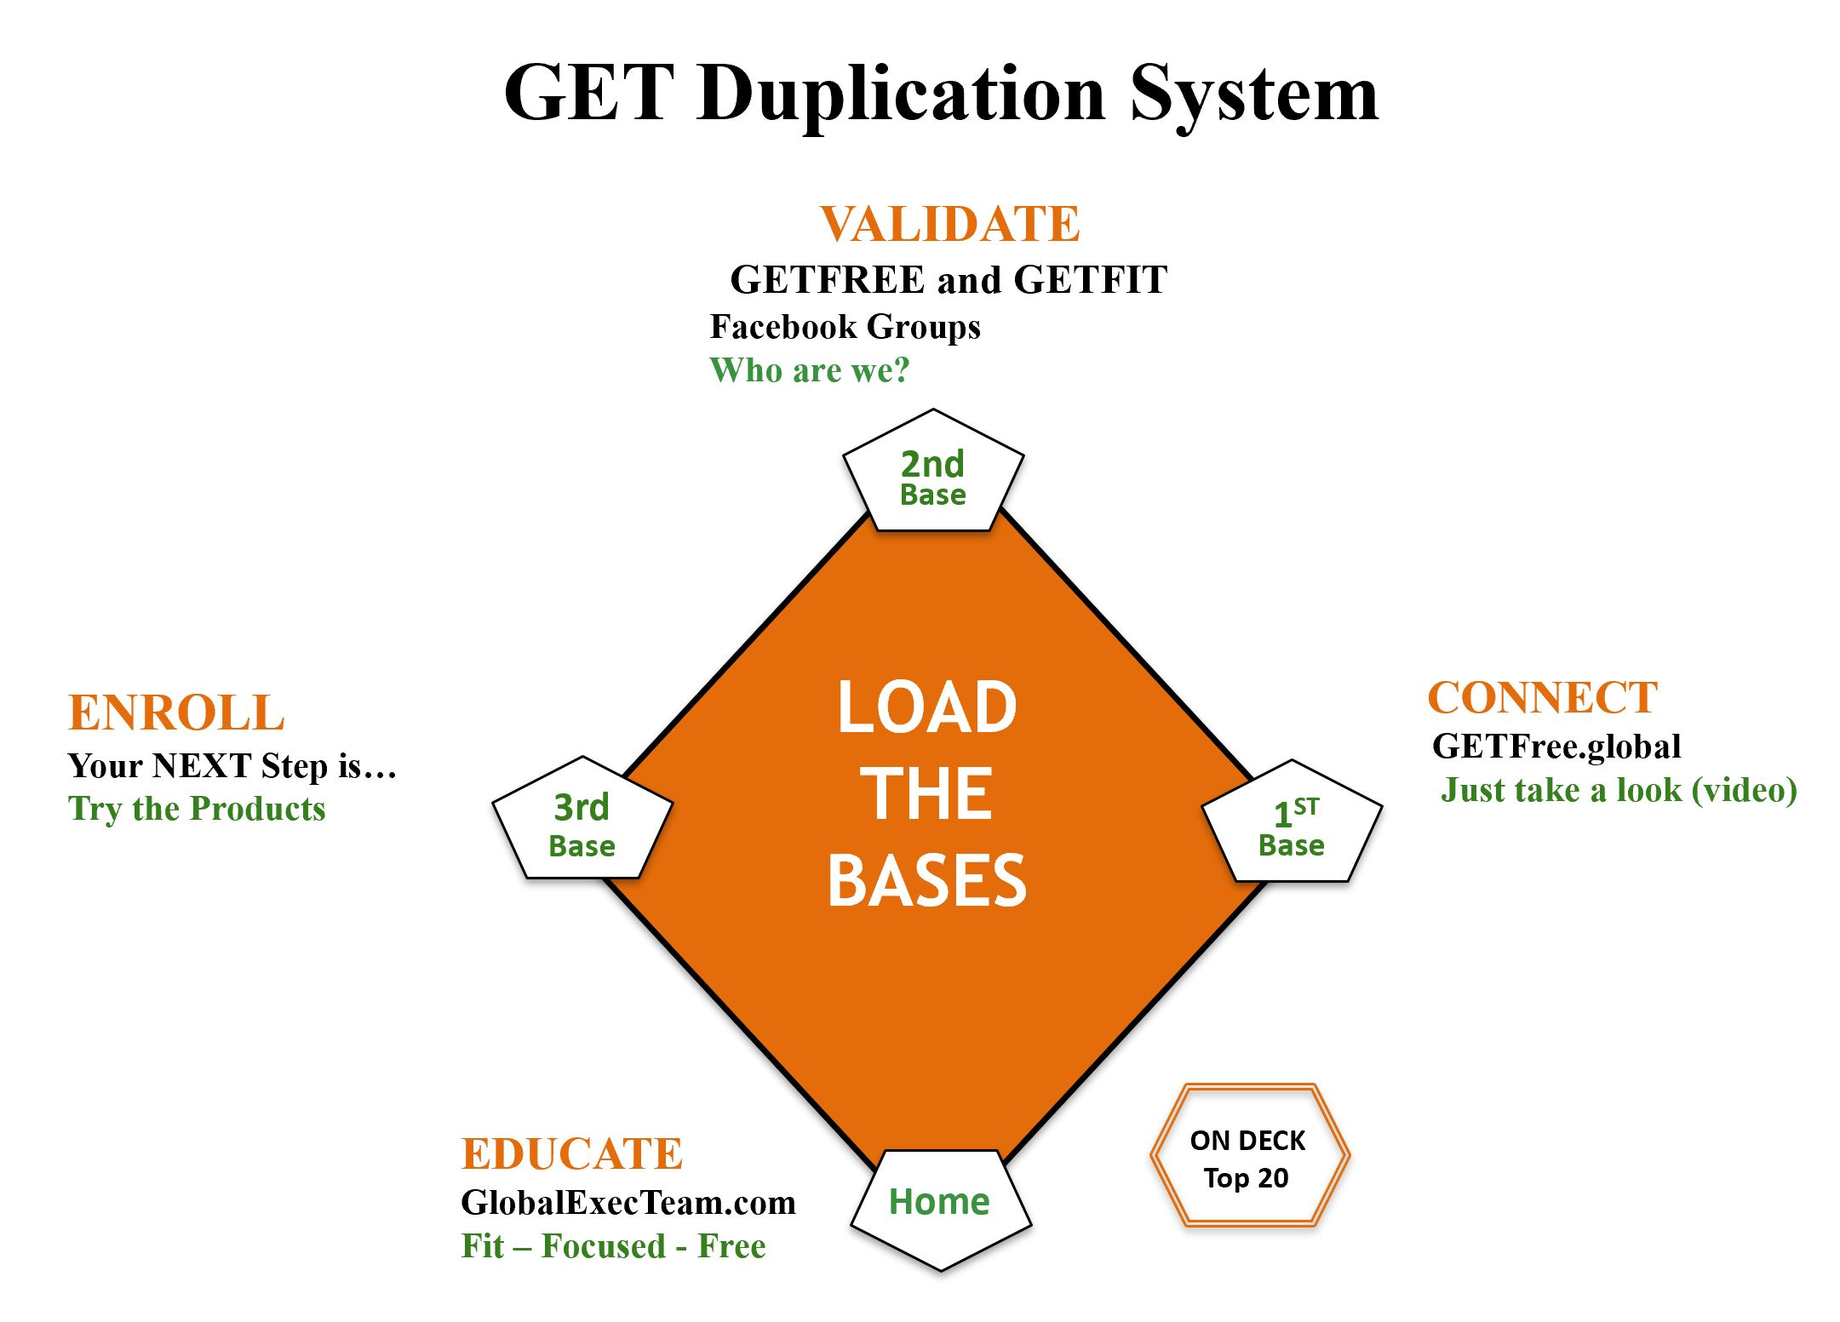
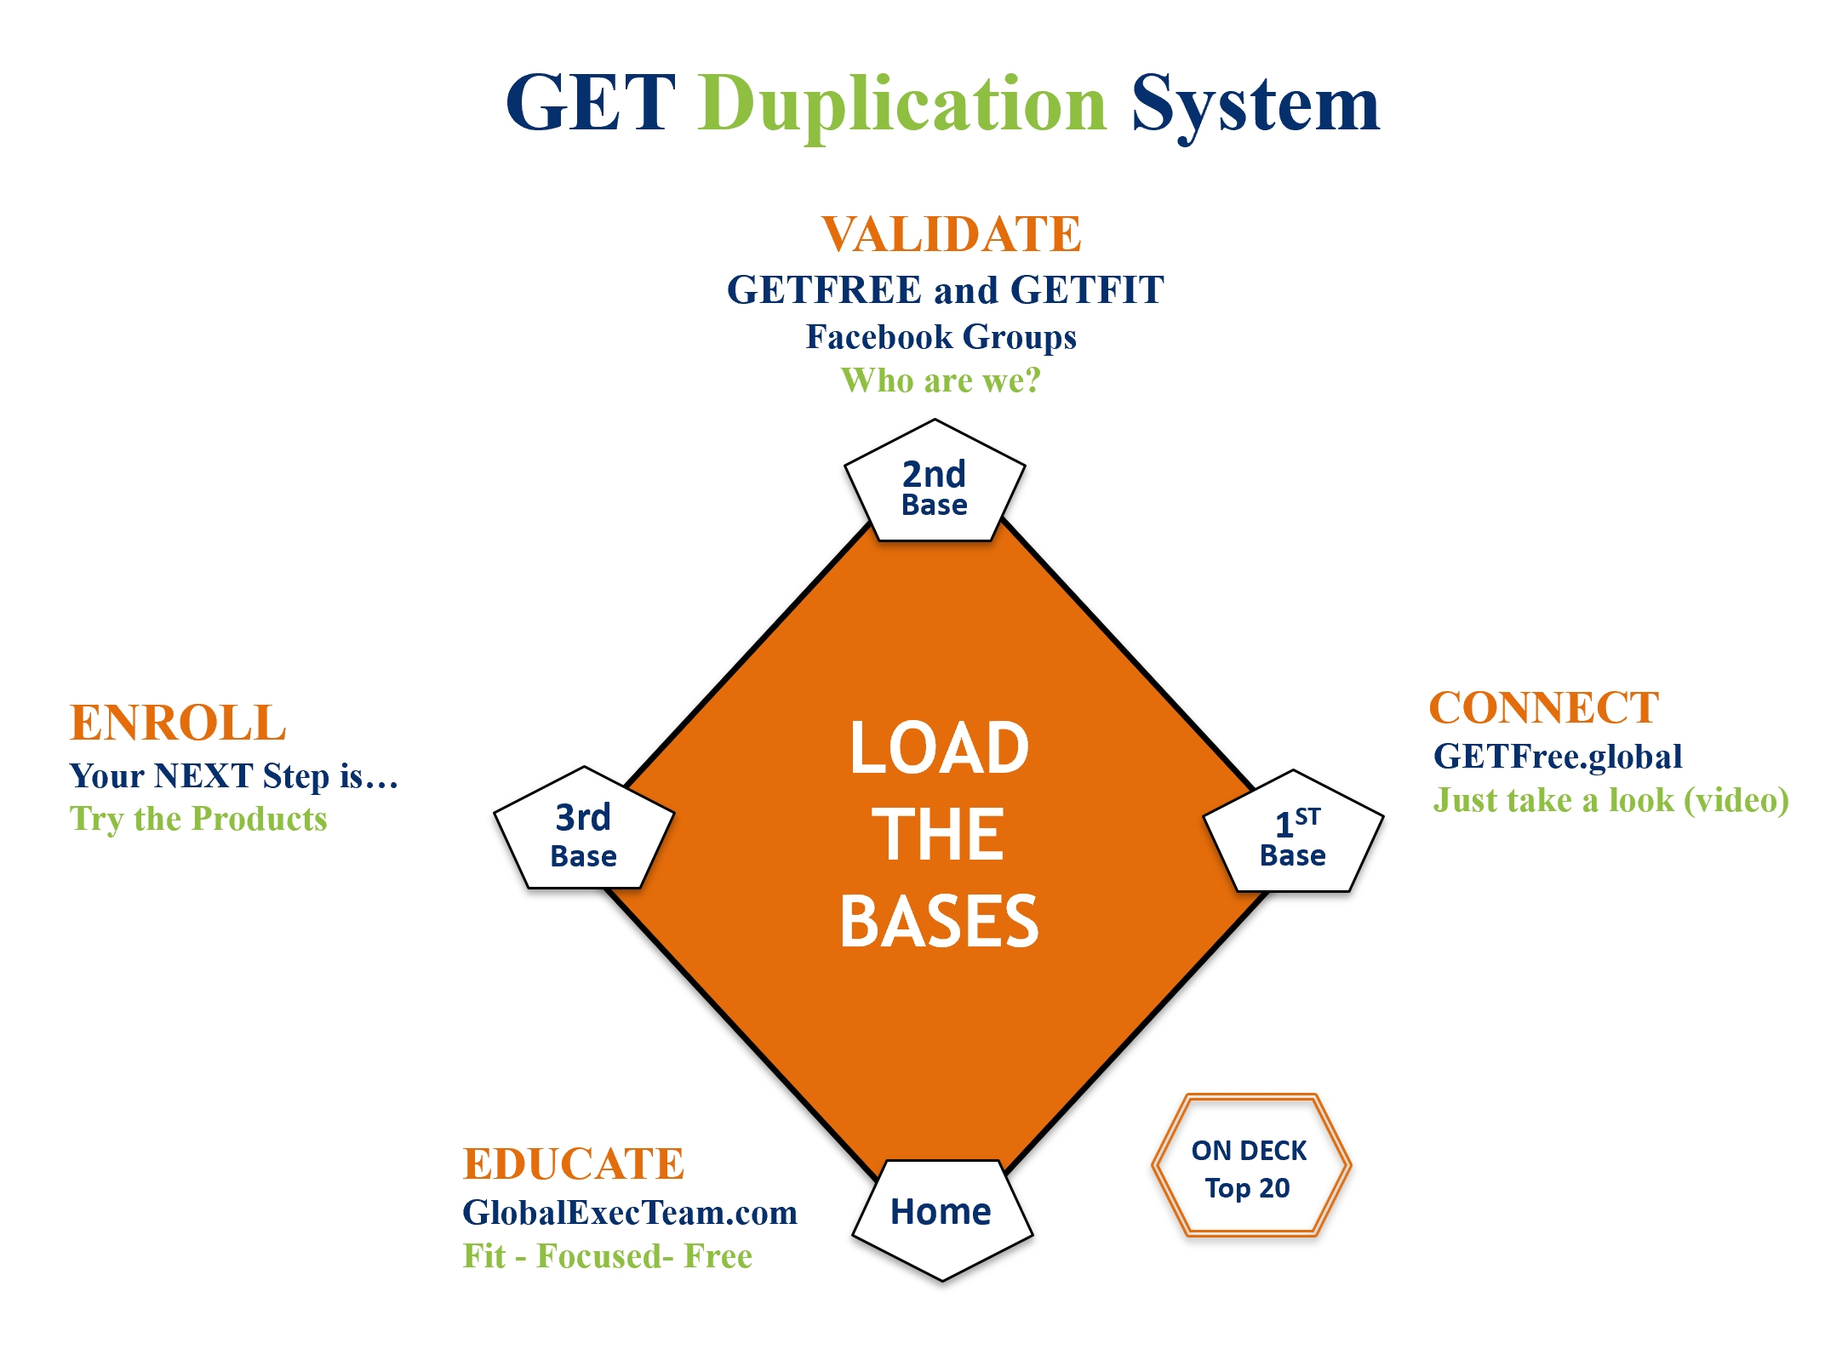
Several content updates.

diff --git a/src/pages/get-success/get-focused/get-them-started-right/order-form/order-form.html b/src/pages/get-success/get-focused/get-them-started-right/order-form/order-form.html
@@ -24,134 +24,74 @@
           <em>Note: Manually write down your new Associate’s information before entering it into the system.</em>
         </p>
         <p>
-          Follow the questions in order on this page and use the form at the bottom of the page. Please shred all
-          personal information
-          once the order is in!
+          <strong>FULL NAME:</strong>
         </p>
         <p>
-          FULL NAME:______________________________________________________________
+          <strong>BILLING/SHIPPING ADDRESS:</strong>
         </p>
         <p>
-          BILLING/SHIPPING ADDRESS:__________________________________________________________________
+          <strong>EMAIL:</strong>
         </p>
         <p>
-          EMAIL: ___________________________________________
+          <strong>TEL#:</strong>
         </p>
         <p>
-          TEL# __________________
+          <strong>VISA/MC/AMEX/DISC:</strong> _____________________________ <strong>EXP:</strong> _________ <strong>CVV:</strong>
+          _________
         </p>
         <p>
-          VISA/MC/AMEX/DISC: _____________________________EXP: _________ CVV: _________
+          <strong>PACK TO ORDER:</strong>
         </p>
         <p>
-          PACK TO ORDER: ____________________________________________________________
+          <strong>SHAKE FLAVORS:</strong> <em>CHOOSE 4 BELOW</em>
+          &nbsp;&nbsp;&nbsp;&nbsp;&nbsp;&nbsp;&nbsp;&nbsp;&nbsp;&nbsp;&nbsp;&nbsp;CANISTERS/PACKETS
         </p>
         <p>
-          SHAKE FLAVORS: ________________________________________CANISTERS/PACKETS
+          __CHOCOLATE&nbsp;&nbsp;&nbsp;__VANILLA&nbsp;&nbsp;&nbsp;__STRAWBERRY&nbsp;&nbsp;&nbsp;__CHOC
+          MINT&nbsp;&nbsp;&nbsp;__PEACH MANGO
         </p>
         <p>
-          SNACKS: __________________________________
+          __DAIRY FREE CHOCOLATE&nbsp;&nbsp;&nbsp;__DAIRY FREE VANILLA CHAI
         </p>
         <p>
-          IONIX: CANISTER / BOTTLE
+          <strong>SNACKS:</strong> __CHOCOLATE&nbsp;&nbsp;&nbsp;__VANILLA&nbsp;&nbsp;&nbsp;__DAIRY FREE BERRY
         </p>
         <p>
-          CLEANSE: POWDER / LIQUID
+          <strong>IONIX:</strong> CANISTER / BOTTLE
         </p>
         <p>
-          BARS: ____________________________________
+          <strong>CLEANSE:</strong> POWDER / LIQUID
         </p>
         <p>
-          ISADELIGHTS: ____________________
+          <strong>BARS:</strong> <em>CHOOSE ONE BELOW</em>
         </p>
         <p>
-          WHEY THINS: _____________________
+          __CHOCOLATE DECADENCE &nbsp;&nbsp;&nbsp;__CHOCOLATE PEANUT BUTTER &nbsp;&nbsp;&nbsp;__LEMON
+          PASSION
+        </p>
+        <p>
+          __CHOCOLATE CREAM CRISP &nbsp;&nbsp;&nbsp;__S’MORES &nbsp;&nbsp;&nbsp;__CARAMEL CASHEW
+        </p>
+        <p>
+          __DF BERRY BLISS &nbsp;&nbsp;&nbsp;__DF CHOC PEANUT BUTTER &nbsp;&nbsp;&nbsp;__DF CHOC
+          COCONUT ALMOND
+        </p>
+        <p>
+          <strong>ISA DELIGHTS:</strong> <em>CHOOSE ONE BELOW</em>
+        </p>
+        <p>
+          __MILK CHOC&nbsp;&nbsp;&nbsp;__DARK CHOC&nbsp;&nbsp;&nbsp;__DARK CHOC MINT&nbsp;&nbsp;&nbsp;MILK SEA SALT
+          CARAMEL
+        </p>
+        <p>
+          <strong>WHEY THINS:</strong> <em>CHOOSE ONE BELOW</em>
+        </p>
+        <p>
+          __BARBEQUE&nbsp;&nbsp;&nbsp;__SOUR CREAM &amp; CHIVE&nbsp;&nbsp;&nbsp;__WHITE CHEDDAR&nbsp;&nbsp;&nbsp;__DF THAI CHILI
         </p>
       </section>
       <section>
-        <ul>
-          <li>
-            <p>What shake flavors would you like? Canisters OR Packets? You can choose between:</p>
-            <ul>
-              <li>
-                IsaLean Shakes : Strawberry, Vanilla, Chocolate or Chocolate Mint
-              </li>
-              <li>
-                Vegan IsaLean Shakes ($4 more per box): Vanilla Chai or Chocolate
-              </li>
-              <li>
-                IsaLean Pro (higher protein content and $9 more per box): Chocolate, Vanilla, French Vanilla,
-                Strawberry
-              </li>
-            </ul>
-          </li>
-          <li>Next are IsaSnacks which are yummy little wafers. Do you want Chocolate, Vanilla or Dairy Free Wild
-            Berry? My favorite
-            is _______.</li>
-          <li>If they have a Value Pak: You have a choice of bars: Lemon Passion ,Oatmeal Raisin, Salted Caramel
-            Cashew, Chocolate
-            Decadence, Chocolate Cream Crisp or Chocolate Peanut Butter and Vegan Bar Options($4 more per box):
-            Chocolate
-            Peanut Butter, Chocolate Berry Bliss or Chocolate Coconut Almond.</li>
-          <li>If they have a Value Pak: You also have a choice of Whey Thins chips. They taste amazing and you can use
-            them on
-            cleanse days too! They come in Barbecue, Sour Cream & Onion or White Cheddar. My favorite is
-            ______________.</li>
-          <li>(Get their preference, then ask) For your IsaDelights, do you prefer plain Dark Chocolate, Dark Chocolate
-            Mint,
-            plain Milk Chocolate or Milk Chocolate with Salted Caramel? </li>
-          <li>
-            If they have a basic Getting Started Pak: “I highly recommend adding a box of IsaDelight Chocolates.
-            They’re amazing on cleanse
-            days and only $36.00 more. Seriously, I couldn’t live without them! Would you like to add those?”
-            (Retention
-            is 50% higher when IsaDelights are ordered with their first system.)
-            <p>Flavor Options:</p>
-            <ul>
-              <li>Dark Chocolate</li>
-              <li>Dark Chocolate Mint</li>
-              <li>Milk Chocolate</li>
-              <li>Milk Chocolate Sea Salt Caramel</li>
-            </ul>
-          </li>
-          <li>
-            Where would you like your box shipped? (Repeat the address back)
-          </li>
-          <li>
-            Is your billing address the same as your shipping address?
-          </li>
-          <li>
-            What’s your email?
-          </li>
-          <li>
-            Is this the best number to reach you at?
-          </li>
-          <li>
-            Which credit card would you like to use? Exp date & CVV? (Repeat the #’s back)
-          </li>
-          <li>
-            Okay, so here’s what going to happen next, you’re going to receive an email confirmation from the company
-            that’s going to
-            have your receipt and tracking info. You’re also going to get a second email with notification about
-            autoship.
-            Make sure to write down the date that’s in the email so no orders ever get sent without you wanting them.
-            Once
-            your box arrives and you’ve gone through it, we’ll hop back on a call so I can answer any questions you
-            have,
-            and at that time I’ll also show you how to manage your autoship.
-          </li>
-          <li>
-            I’m also going to add you to a private group on Facebook so you can experience the support of our amazing
-            community. How
-            does that sound?
-          </li>
-        </ul>
-        <p>
-          (Book your next appointment to walk them through their back office and show them <a href="#">GlobalExecTeam.com</a>.)
-        </p>
-      </section>
-      <section>
-        <span class="link-span" (click)="pdfProvider.openPdf('Order Form','https://firebasestorage.googleapis.com/v0/b/globalexecteam-17cfa.appspot.com/o/pdfs%2Forder-form.pdf?alt=media&token=af1e3e58-468f-4210-a7ce-71f6369d44bb')">Download
+        <span class="link-span" (click)="pdfProvider.openPdf('Order Form','https://firebasestorage.googleapis.com/v0/b/globalexecteam-17cfa.appspot.com/o/pdfs%2Forder-form.pdf?alt=media&token=25a8a4d1-1d16-4519-b6e1-42fb3a647f1c')">Download
           This Order Form as a PDF</span>
       </section>
     </article>

diff --git a/src/pages/get-success/get-free/get-success-get-free.html b/src/pages/get-success/get-free/get-success-get-free.html
@@ -23,8 +23,8 @@
       <div id="outerGrid">
         <section id="firstSection">
           <h2>Master the Money</h2>
-          <h3>Road to Exec - <span class="link-span" (click)="pdfProvider.openPdf('Crystal Executive Plan', 'https://firebasestorage.googleapis.com/v0/b/globalexecteam-17cfa.appspot.com/o/pdfs%2Fcrystal-exec.pdf?alt=media&token=0f37b46d-2eac-4e05-9ed8-d7afa975002b')">$10,550
-              USD</span></h3>
+          <h3>Road to Exec - <span class="link-span" (click)="pdfProvider.openPdf('Crystal Executive Plan', 'https://firebasestorage.googleapis.com/v0/b/globalexecteam-17cfa.appspot.com/o/pdfs%2Fcrystal-exec.pdf?alt=media&token=0f37b46d-2eac-4e05-9ed8-d7afa975002b')">
+            Executive Plan</span></h3>
           <ul>
             <li><img class="diamond" src="assets/imgs/misc/orange-diamond.png" alt="" />Create Consultants - $2000
               ($100 x 20)</li>
@@ -44,16 +44,13 @@
           </ul>
           <h3>Compensation Plan</h3>
           <ul>
-            <li>
-              <span class="link-span" (click)="openVideoModal('jim-coover')">
+            <li><span class="link-span" (click)="openVideoModal('jim-coover')">
                 Isagenix Compensation Plan with Jim Coover</span>
             </li>
-            <li><span class="link-span" (click)="pdfProvider.openPdf('Compensation Plan at a Glance', 'https://firebasestorage.googleapis.com/v0/b/globalexecteam-17cfa.appspot.com/o/pdfs%2Fthe-money.pdf?alt=media&token=7e398d4f-8cfb-4c39-98c1-e0863c923564')">
+            <li><span class="link-span" (click)="pdfProvider.openPdf('Compensation Plan at a Glance', 'https://firebasestorage.googleapis.com/v0/b/globalexecteam-17cfa.appspot.com/o/pdfs%2Fcomp-plan-at-a-glance.pdf?alt=media&token=c1680095-f0a0-4ed9-816e-aecb6a6b5859')">
                 Compensation Plan at a Glance</span></li>
-            <li><span class="link-span" (click)="pdfProvider.openPdf('Residual Income', 'https://firebasestorage.googleapis.com/v0/b/globalexecteam-17cfa.appspot.com/o/pdfs%2Fisagenix-cycles.pdf?alt=media&token=84378b03-8320-4fd2-90e4-b46a65c5966c')">
-                Residual Income</span></li>
             <li><span class="link-span" (click)="pdfProvider.openPdf('Compensation Plan', 'https://firebasestorage.googleapis.com/v0/b/globalexecteam-17cfa.appspot.com/o/pdfs%2Fcompensation-plan.pdf?alt=media&token=76b26d3b-5f18-499b-b989-f802d19190e3')">Global
-                Compensation Plan</span></li>
+                Compensation Plan PDF</span></li>
           </ul>
         </section>
         <section id="divider"></section>
@@ -67,10 +64,7 @@
           </div>
           <div>
             <span class="link-span" (click)="pdfProvider.openPdf('Fast Track Bonuses', 'https://firebasestorage.googleapis.com/v0/b/globalexecteam-17cfa.appspot.com/o/pdfs%2Fbonuses.pdf?alt=media&token=782b0771-52b1-447b-92bb-981a5c94d593')">Fast
-              Track Bonuses</span>
-            <br />
-            <span id="pibNote" class="note">Updated version coming soon. The Value Pak PIB has increased<br /> from $80
-              to $100.</span>
+              Track to Executive Bonuses - $10,550</span>
           </div>
         </section>
       </div>

diff --git a/src/pages/get-success/get-focused/get-success-get-focused.html b/src/pages/get-success/get-focused/get-success-get-focused.html
@@ -31,7 +31,7 @@
                 target="_blank">Product</a></span>
             <div id="pwDiv" class="indented">Password: GETFIT</div>
             <ul>
-              <li>Call a Few Friends - <span class="link-span" (click)="openPage('PowerQuotesPage')">Power Quotes</span></li>
+              <li>Call a Few Friends - <span class="link-span" (click)="openPage('BusinessProspectingPage')">Business Prospecting</span></li>
               <li>Text a Few Friends - <span class="link-span" (click)="openPage('TextYourFewPage')">Sample Text</span></li>
               <li>Initial Facebook Post - <span class="link-span" (click)="openPage('PostOnFacebookPage')">Simple
                   Steps</span></li>
@@ -60,9 +60,9 @@
         </section>
         <section id="divider"></section>
         <section id="section2">
-          <a href="https://firebasestorage.googleapis.com/v0/b/globalexecteam-17cfa.appspot.com/o/images%2Fbaseball-diamond.jpg?alt=media&token=2c1e35c0-b50b-425b-9788-b4dd6563818c"
+          <a href="https://firebasestorage.googleapis.com/v0/b/globalexecteam-17cfa.appspot.com/o/images%2Fbaseball-diamond.jpg?alt=media&token=5393a029-db58-4ae0-9301-bc5bf515416a"
             target="_blank">
-            <img id="img" alt="GET Duplication System" src="assets/imgs/misc/baseball-diamond.jpg" />
+            <img id="img" alt="GET Duplication System" src="assets/imgs/misc/baseball-diamond-sm.jpg" />
           </a>
           <div id="note">
             <span class="note">(Click the image above to view it full-screen.)</span>

diff --git a/src/pages/get-success/get-focused/post-on-facebook/post-on-facebook.html b/src/pages/get-success/get-focused/post-on-facebook/post-on-facebook.html
@@ -157,11 +157,11 @@
         <p><em>"What's the name of the system?"</em></p>
         <p><strong>YOU:</strong> It’s called Isagenix. (and then get right back where you left off in the template)!</p>
         <p><em>"How does it work?"</em></p>
-        <p><strong>YOU:</strong> It’s so simple, I’ll send you a few things to look at (and then get right back to the
+        <p><strong>YOU:</strong> It’s so simple, I’ll send you a video to look at (and then get right back to the
           template)!</p>
       </section>
       <section>
-        <span class="link-span" (click)="pdfProvider.openPdf('Post on Facebook','https://firebasestorage.googleapis.com/v0/b/globalexecteam-17cfa.appspot.com/o/pdfs%2Fpost-on-facebook.pdf?alt=media&token=5be745fd-4fb7-4c52-9dd5-eee23809d58c')">Download
+        <span class="link-span" (click)="pdfProvider.openPdf('Post on Facebook','https://firebasestorage.googleapis.com/v0/b/globalexecteam-17cfa.appspot.com/o/pdfs%2Fpost-on-facebook.pdf?alt=media&token=91fbfd85-135f-4096-8df1-7dad5681a80d')">Download
           This Script as a PDF</span>
       </section>
     </article>

diff --git a/src/pages/get-success/get-fit/get-success-get-fit.html b/src/pages/get-success/get-fit/get-success-get-fit.html
@@ -33,7 +33,7 @@
                 <span class="link-span" (click)="pdfProvider.openPdf('Develop Your 30-Second Story', 'https://firebasestorage.googleapis.com/v0/b/globalexecteam-17cfa.appspot.com/o/pdfs%2Fshare-your-story.pdf?alt=media&token=a88674ef-a20d-4f89-8daf-17a48c2f3b69')">Develop
                   YOUR 30-Second Story</span>
               </li>
-              <li>Practice, Practice, Practice</li>
+              <li>Sample Story</li>
               <li>
                 Videotape and Share with Your Team Leader
               </li>
@@ -45,7 +45,8 @@
                 Write Down 100 Names
               </li>
               <li>
-                Highlight Top 10 Product and Business Prospects
+                  <span class="link-span" (click)="pdfProvider.openPdf('Top 20', 'https://firebasestorage.googleapis.com/v0/b/globalexecteam-17cfa.appspot.com/o/pdfs%2Ftop-20.pdf?alt=media&token=0bc6c89a-ee9d-4b9b-b0d2-01e60de19dff')">
+                Highlight Top 10 Product and Business Prospects</span>
               </li>
             </ul>
           </section>

diff --git a/src/pages/get-success/get-focused/business-prospecting/business-prospecting.module.ts b/src/pages/get-success/get-focused/business-prospecting/business-prospecting.module.ts
@@ -1,15 +1,15 @@
 import { ComponentsModule } from '../../../../components/components.module';
 import { NgModule } from '@angular/core';
 import { IonicPageModule } from 'ionic-angular';
-import { PowerQuotesPage } from './power-quotes';
+import { BusinessProspectingPage } from './business-prospecting';
 
 @NgModule({
   declarations: [
-    PowerQuotesPage,
+    BusinessProspectingPage,
   ],
   imports: [
     ComponentsModule,
-    IonicPageModule.forChild(PowerQuotesPage),
+    IonicPageModule.forChild(BusinessProspectingPage),
   ],
 })
-export class PowerQuotesPageModule {}
+export class BusinessProspectingPageModule {}

diff --git a/src/pages/get-success/get-focused/business-prospecting/business-prospecting.html b/src/pages/get-success/get-focused/business-prospecting/business-prospecting.html
@@ -5,7 +5,7 @@
     </button>
     <ion-title>
       <i class="fa fa-quote-left fixed-width space-right"></i>
-      <span>Power Quotes</span>
+      <span>Business Prospecting</span>
     </ion-title>
   </ion-navbar>
 </ion-header>
@@ -18,7 +18,7 @@
     <article>
       <button id="backBtn" (click)="goBack()">
         <i class="fa fa-caret-left"></i>&nbsp;Back</button>
-      <h1 class="centered">Power Quotes</h1>
+      <h1 class="centered">Business Prospecting</h1>
       <section>
         <h3>Prospecting Power-Line</h3>
         <p>

diff --git a/src/pages/get-success/get-focused/business-prospecting/business-prospecting.ts b/src/pages/get-success/get-focused/business-prospecting/business-prospecting.ts
@@ -5,10 +5,10 @@ import { PdfProvider } from '../../../../providers/pdf/pdf';
 
 @IonicPage()
 @Component({
-  selector: 'page-power-quotes',
-  templateUrl: 'power-quotes.html',
+  selector: 'page-business-prospecting',
+  templateUrl: 'business-prospecting.html',
 })
-export class PowerQuotesPage {
+export class BusinessProspectingPage {
 
   constructor(public navCtrl: NavController, public navParams: NavParams,
     public auth: AuthProvider, public pdfProvider: PdfProvider) {

diff --git a/src/pages/get-elevated/videos/videos.html b/src/pages/get-elevated/videos/videos.html
@@ -21,7 +21,7 @@
       <div class="video-container" (click)="openVideoModal('network-marketing')">
         <span class="icon"><i class="fa fa-film"></i></span>
         <div>
-          <span class="title">NWM vs MLM</span>
+          <span class="title">NWM vs MLM (audio)</span>
           <span class="author">by Susan Miller</span>
         </div>
       </div>

diff --git a/src/pages/get-success/get-fit/get-success-get-fit.scss b/src/pages/get-success/get-fit/get-success-get-fit.scss
@@ -7,7 +7,7 @@ page-get-success-get-fit {
   .diamond, .link-span {
     margin-top: 20px;
   }
-  
+
   #outerGrid {
     display: grid;
     grid-template-columns: auto;
@@ -19,7 +19,6 @@ page-get-success-get-fit {
   }
 
   #quote {
-    color: $bright-accent-color;
     font-weight: bold;
     font-style: italic;
     text-align: center;

diff --git a/src/pages/get-started/get-free/get-started-get-free.html b/src/pages/get-started/get-free/get-started-get-free.html
@@ -20,6 +20,7 @@
     </nav>
     <article>
       <h1>GET Free</h1>
+      <h2>Eat for Free</h2>
       <div id="container">
         <section id="linkSection">
           <h3>Join the IsaBody Challenge</h3>

diff --git a/src/pages/get-success/get-focused/business-prospecting/business-prospecting.scss b/src/pages/get-success/get-focused/business-prospecting/business-prospecting.scss
@@ -1,4 +1,4 @@
-page-power-quotes {
+page-business-prospecting {
   h3 {
     color: $secondary-color;
     font-weight: bold;
